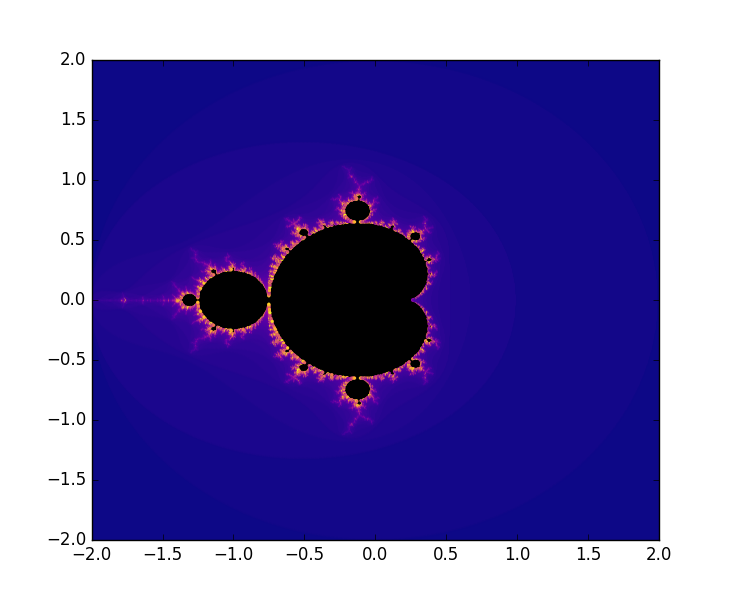
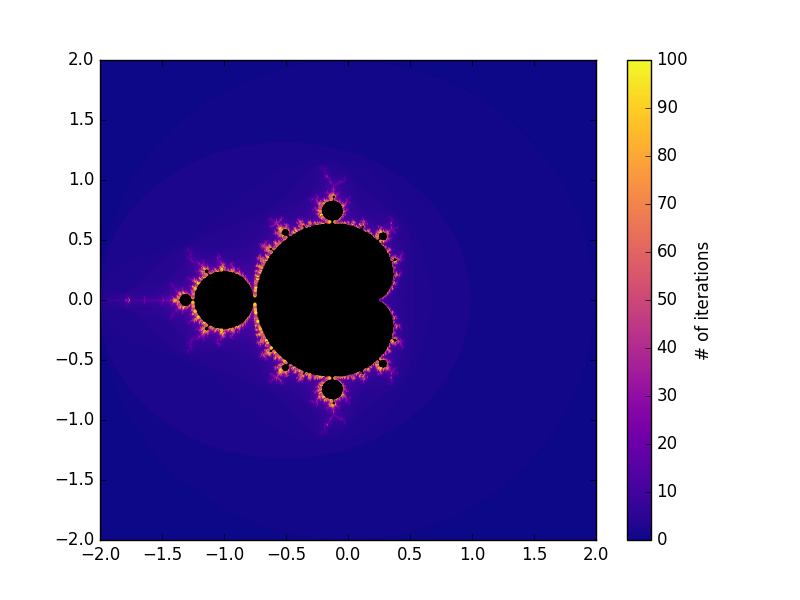
added colorbar to plots

diff --git a/mandelbrot.py b/mandelbrot.py
@@ -22,7 +22,7 @@ def iterate(c, xmax):
     return False, counter
 
 # Create image using the Mandelbrot fractal using an NxN grid
-def image(N=1000):
+def image(N=100):
     xmax = 2
     xmin = -xmax
     ns = np.linspace(xmin, xmax, N)
@@ -42,10 +42,12 @@ def image(N=1000):
             else:
                 outsetx.append(x)
                 outsety.append(y)
-                outsetcols.append(num)
+                outsetcols.append(np.log10(num+1))
 
     plt.scatter(insetx, insety, marker='.', edgecolor='', c='black')
     plt.scatter(outsetx, outsety, marker='.', edgecolor='', c=outsetcols, cmap=cm.plasma)
+    cbar = plt.colorbar()
+    cbar.set_label('log(# of iterations)')
 
     plt.xlim(-2, 2)
     plt.ylim(-2, 2)
